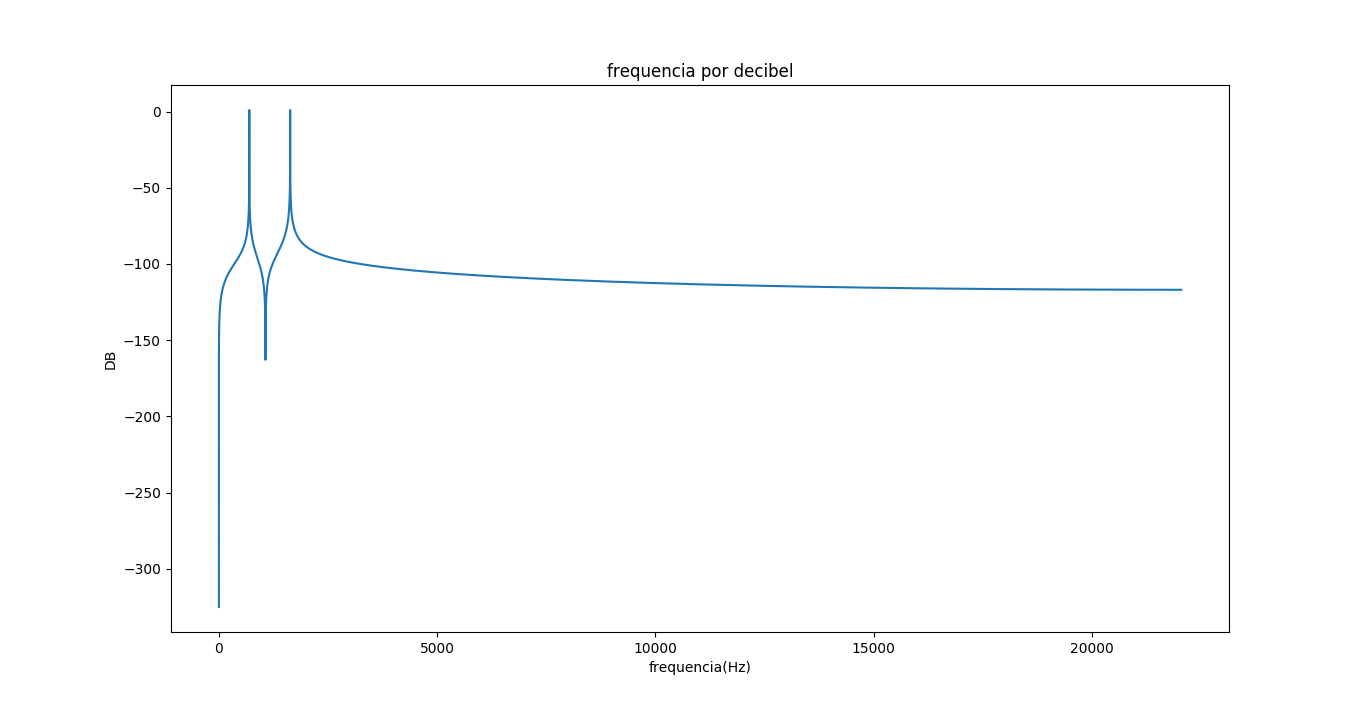
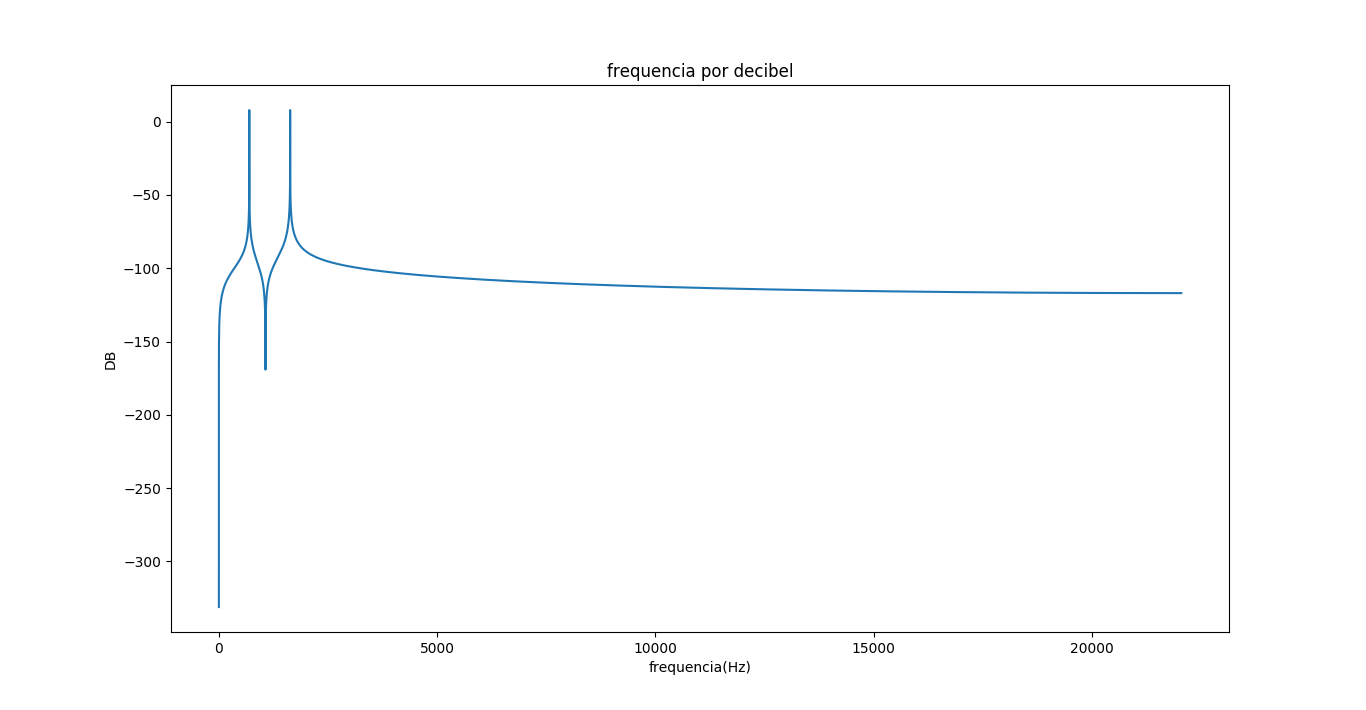
adicionado imagens da frequencia por db e ajustes em decoder e encoder

diff --git a/decoderDTMF.py b/decoderDTMF.py
@@ -87,10 +87,6 @@ class Main():
         x = tempo
 
         ax2 = fig.add_subplot(1,2,1)
-        ax2.set_title('Sinais pelo tempo')
-        ax2.set_xlabel('Tempo')
-        ax2.set_ylabel('Sinal')
-
         ax2.plot(x[0:1000], y[0:1000], 'c')
         ax2.set_title('Sinais pelo tempo')
         ax2.set_xlabel('Tempo')

diff --git a/encoderDTMF.py b/encoderDTMF.py
@@ -51,7 +51,7 @@ def geraSom(fList, num):
     ax1.plot(x,y)
 
     # gráfico das frequencias em decibeis (utilizando fourier)
-    ax2 = fig.add_subplot(1,1,1)
+    ax2 = fig.add_subplot(1,2,2)
     ax2.set_xlabel('frequencia(Hz)')
     ax2.set_ylabel('DB')
     ax2.set_title('frequencia por decibel')
